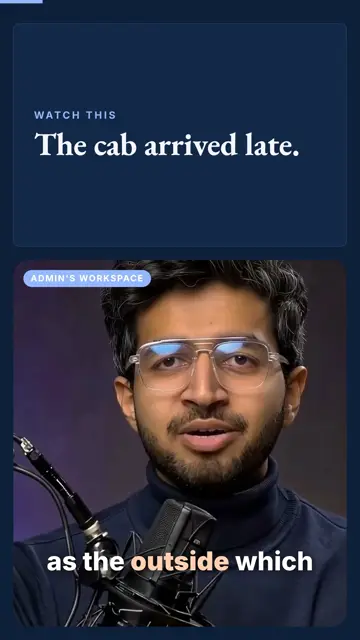
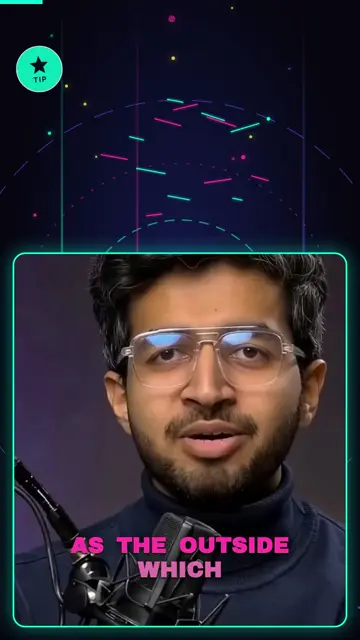
Landing showreel uses the new renders

diff --git a/src/lib/landing-videos.ts b/src/lib/landing-videos.ts
@@ -1,32 +1,32 @@
 // The showreel on the landing page. Edit only this list to change what plays there.
 // `url` is a public file in the Supabase `vl-videos` bucket; `poster` is a still in public/landing.
-const BUCKET = "https://tthoenvdikpwrgodgswq.supabase.co/storage/v1/object/public/vl-videos";
+const BUCKET = "https://tthoenvdikpwrgodgswq.supabase.co/storage/v1/object/public/vl-videos/3e0ea3a6-fce2-4421-b1ff-90512fe86244";
 
 export type LandingVideo = { title: string; family: string; url: string; poster: string };
 
 export const landingVideos: LandingVideo[] = [
   {
     title: "Weight loss does not have to be miserable",
-    family: "Kinetic type",
-    url: `${BUCKET}/3e0ea3a6-fce2-4421-b1ff-90512fe86244/86b0344a-3558-4640-9fba-4e9dd516f3fd.mp4`,
+    family: "Product UI",
+    url: `${BUCKET}/3a0eaee2-8de9-425a-9987-72d66a319677.mp4`,
     poster: "/landing/poster-1.webp",
   },
   {
     title: "How advertising lost the plot",
-    family: "Editorial",
-    url: `${BUCKET}/3e0ea3a6-fce2-4421-b1ff-90512fe86244/e9c0df1e-52f8-414b-9373-3c0744801b27.mp4`,
+    family: "Explainer",
+    url: `${BUCKET}/865ce51e-c9a5-4235-a852-5f7d61774cde.mp4`,
     poster: "/landing/poster-2.webp",
   },
   {
     title: "How we cut our meetings in half",
-    family: "Product UI",
-    url: `${BUCKET}/3e0ea3a6-fce2-4421-b1ff-90512fe86244/4d465cf3-3fdd-4aef-9705-e7c185828714.mp4`,
+    family: "Kinetic typography",
+    url: `${BUCKET}/4efda9b1-abc6-4a16-8059-89dac08d1a29.mp4`,
     poster: "/landing/poster-3.webp",
   },
   {
     title: "The cab that arrived late",
-    family: "Boardroom",
-    url: `${BUCKET}/3e0ea3a6-fce2-4421-b1ff-90512fe86244/97c726c1-81f2-418d-8e83-d74fcf9e0017.mp4`,
+    family: "Generative",
+    url: `${BUCKET}/d2531ce0-5273-4a08-9645-0a9832b64e5e.mp4`,
     poster: "/landing/poster-4.webp",
   },
 ];
